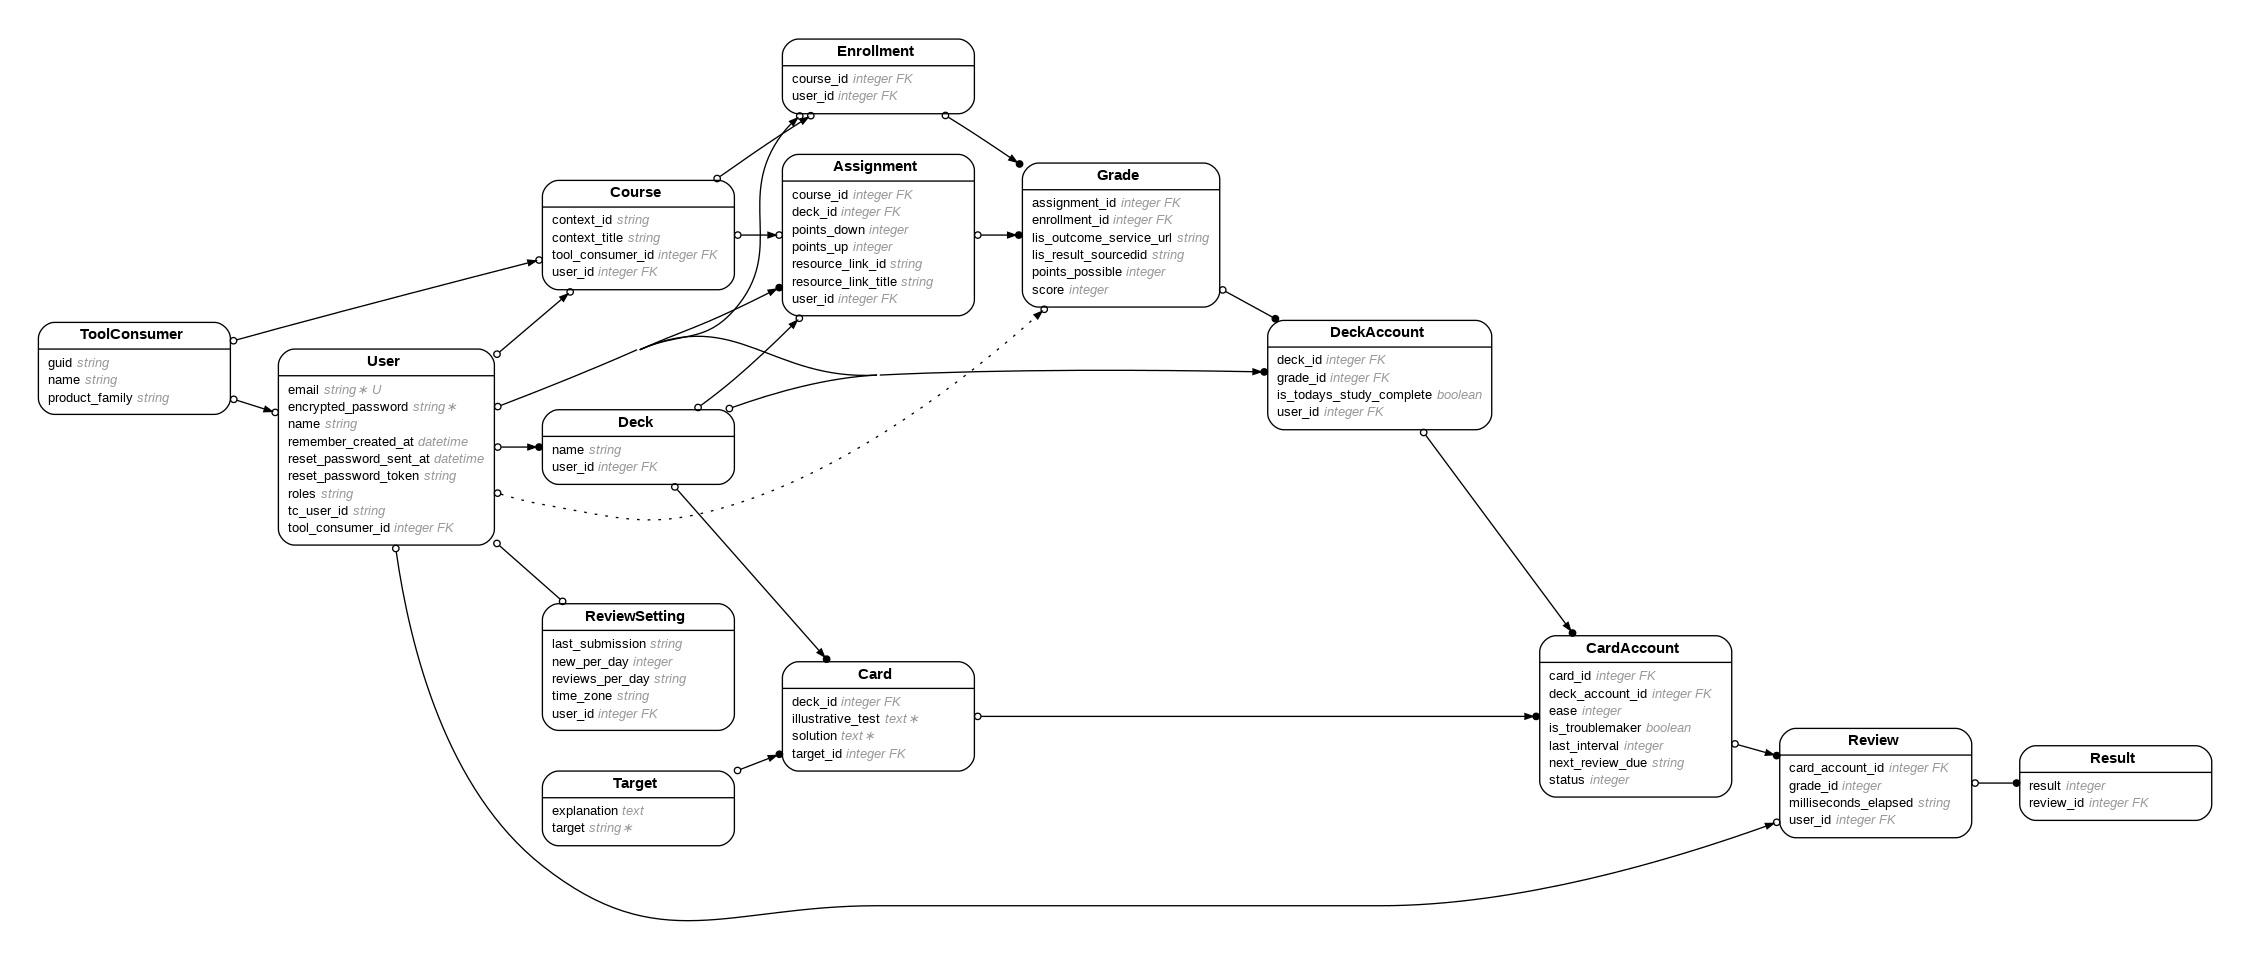
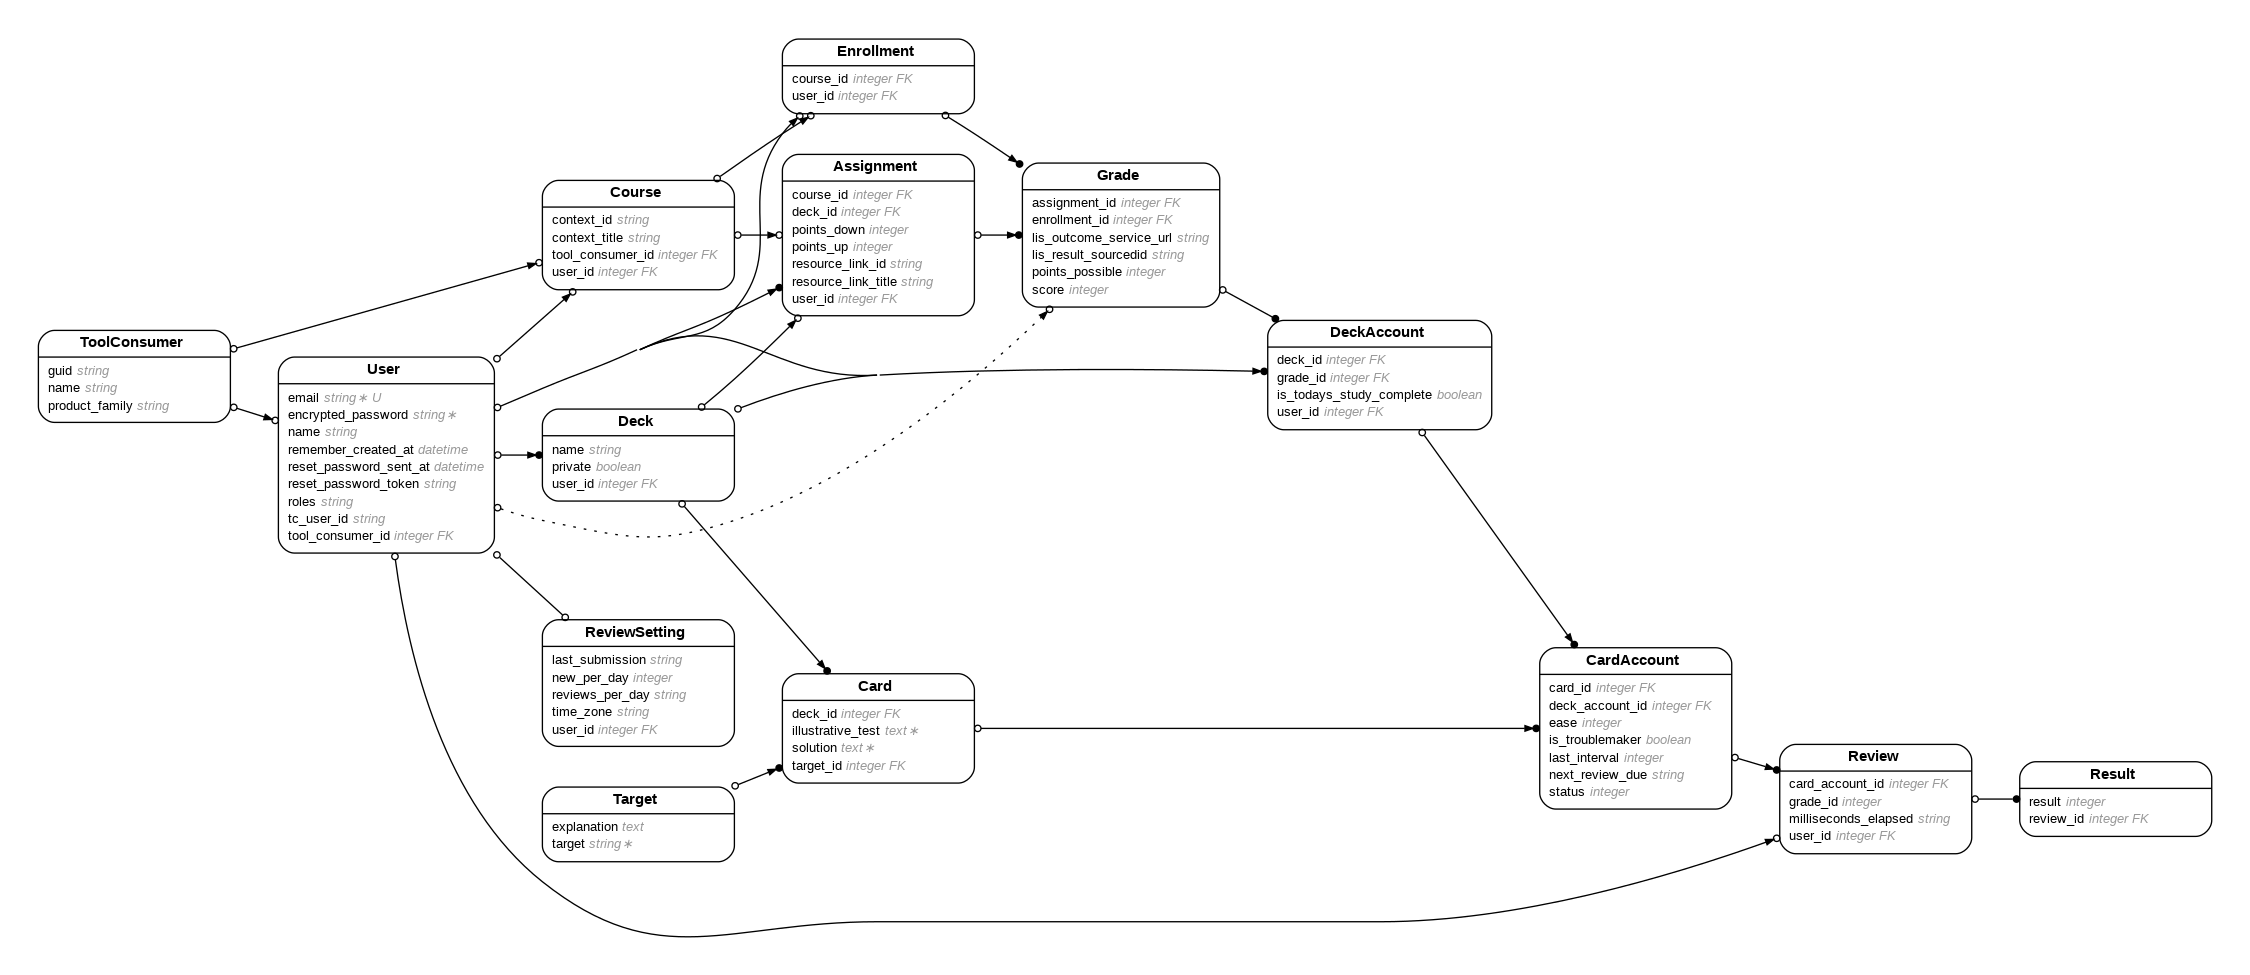
added private to decks

diff --git a/db/schema.rb b/db/schema.rb
@@ -10,7 +10,7 @@
 #
 # It's strongly recommended that you check this file into your version control system.
 
-ActiveRecord::Schema.define(version: 2021_12_13_201017) do
+ActiveRecord::Schema.define(version: 2021_12_14_162808) do
 
   # These are extensions that must be enabled in order to support this database
   enable_extension "plpgsql"
@@ -71,6 +71,7 @@ ActiveRecord::Schema.define(version: 2021_12_13_201017) do
     t.integer "user_id"
     t.datetime "created_at", precision: 6, null: false
     t.datetime "updated_at", precision: 6, null: false
+    t.boolean "private", default: true
   end
 
   create_table "enrollments", force: :cascade do |t|

diff --git a/app/models/deck.rb b/app/models/deck.rb
@@ -7,6 +7,7 @@
 #  user_id    :integer
 #  created_at :datetime         not null
 #  updated_at :datetime         not null
+#  private    :boolean          default(TRUE)
 #
 class Deck < ApplicationRecord
   belongs_to :user, required: true, class_name: "User", foreign_key: :user_id 

diff --git a/test/models/deck_test.rb b/test/models/deck_test.rb
@@ -7,6 +7,7 @@
 #  user_id    :integer
 #  created_at :datetime         not null
 #  updated_at :datetime         not null
+#  private    :boolean          default(TRUE)
 #
 require "test_helper"
 

diff --git a/db/migrate/20211214162808_add_private_to_decks.rb b/db/migrate/20211214162808_add_private_to_decks.rb
@@ -1,0 +1,5 @@
+class AddPrivateToDecks < ActiveRecord::Migration[6.1]
+  def change
+    add_column :decks, :private, :boolean, default: true
+  end
+end
